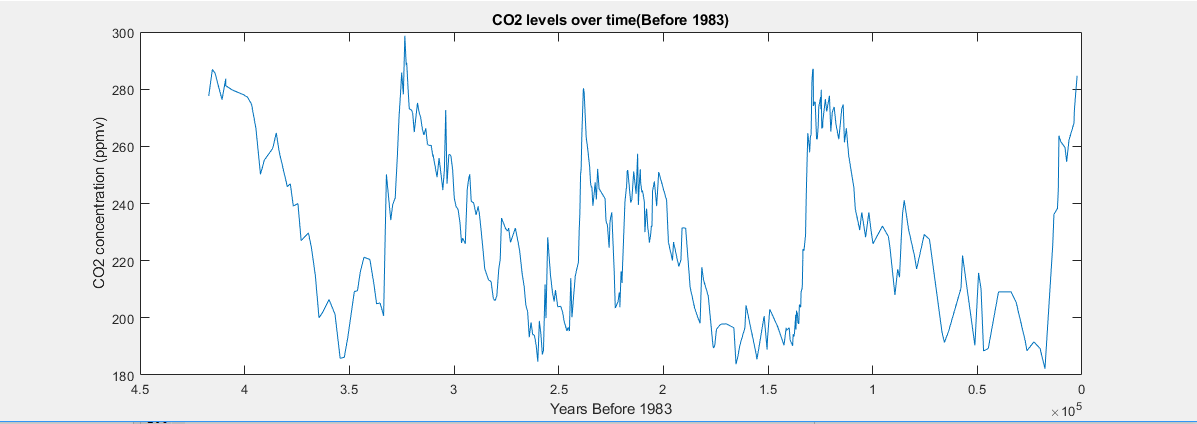
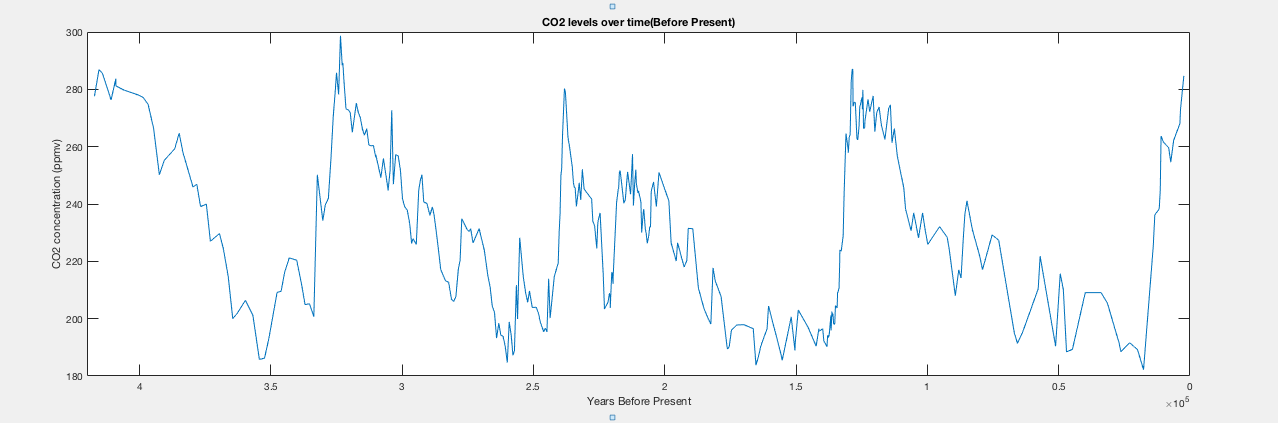
Fixes some labels for graphs

diff --git a/HW3p/HW3p.m b/HW3p/HW3p.m
@@ -96,9 +96,9 @@ set(gca, 'XDir', 'reverse')
 % removes scientific notation from years if uncommented
 %set(gca, 'XTickLabel', num2str(get(gca,'XTick')','%d'))
 
-title ('CO2 levels over time(Before 1983)');
+title ('CO2 levels over time(Before Present)');
 ylabel ('CO2 concentration (ppmv)');
-xlabel ('Years Before 1983');
+xlabel ('Years Before Present');
 % END Plot
 
 % What is the range of variability of the CO2 levels?
@@ -111,7 +111,7 @@ fprintf('Standard deviation of CO2 levels: %f.\n', std(vco2));
 % Plot a histogram of the CO2 levels
 figure;
 hist(vco2)
-title ('Histogram of CO2 levels over time(Before 1983)');
+title ('Histogram of CO2 levels over time(Before Present)');
 ylabel ('Frequency');
 xlabel ('CO2 concentration (ppmv)');
 
